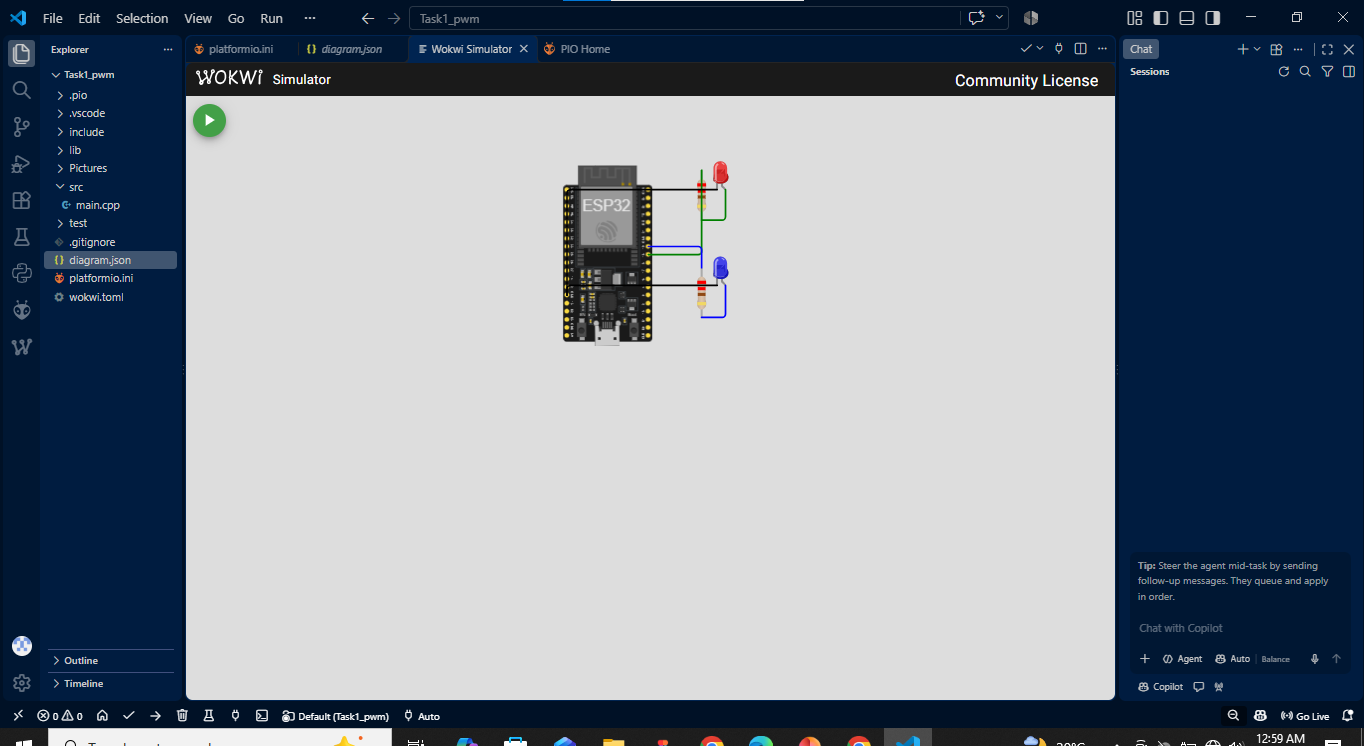
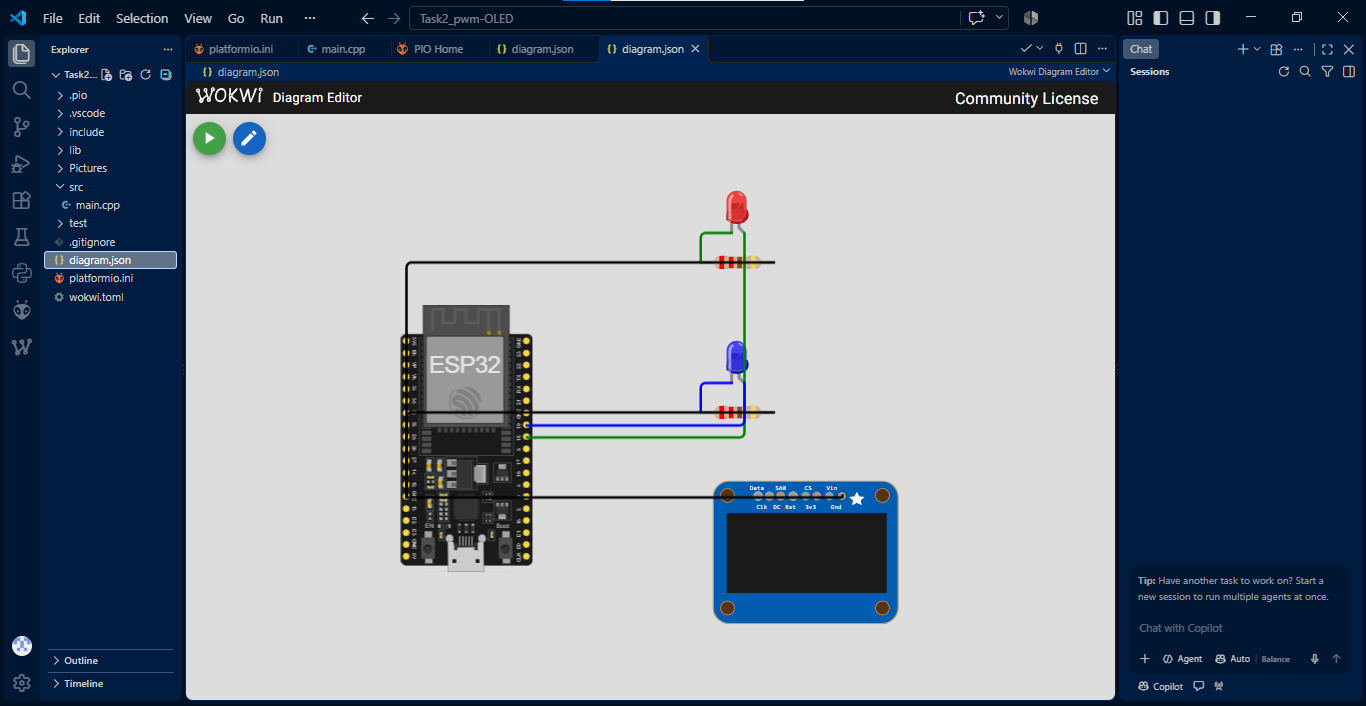
Complete Homework

diff --git a/HOMEWORK_2/src/main.cpp b/HOMEWORK_2/src/main.cpp
@@ -1,73 +1,104 @@
 
 #include <Arduino.h>
+#include <Wire.h>
+#include <Adafruit_GFX.h>
+#include <Adafruit_SSD1306.h>
 
-constexpr uint8_t LED1_PIN = 18;
-constexpr uint8_t LED2_PIN = 19;
+#define SCREEN_WIDTH 128
+#define SCREEN_HEIGHT 64
+#define OLED_RESET -1
+#define OLED_ADDRESS 0x3C
 
-constexpr uint8_t PWM_CHANNEL1 = 0;
-constexpr uint8_t PWM_CHANNEL2 = 2;
+Adafruit_SSD1306 display(
+    SCREEN_WIDTH, SCREEN_HEIGHT, &Wire, OLED_RESET
+);
 
-constexpr uint32_t PWM_FREQUENCY1 = 1000;
-constexpr uint32_t PWM_FREQUENCY2 = 5000;
+const int LED1_PIN = 18;
+const int LED2_PIN = 19;
 
-constexpr uint8_t PWM_RESOLUTION = 8;
-constexpr uint16_t PWM_MAX_DUTY = (1 << PWM_RESOLUTION) - 1;
+const int CHANNEL1 = 0;
+const int CHANNEL2 = 2;
 
-void setup()
-{
+const int FREQ1 = 1000;
+const int FREQ2 = 5000;
+const int RESOLUTION = 8;
+const int MAX_DUTY = 255;
+
+int duty1 = 0;
+int duty2 = 0;
+
+void showOLED() {
+    int percent1 = duty1 * 100 / MAX_DUTY;
+    int percent2 = duty2 * 100 / MAX_DUTY;
+
+    display.clearDisplay();
+    display.setTextColor(SSD1306_WHITE);
+    display.setTextSize(1);
+
+    display.setCursor(0, 0);
+    display.println("PWM MONITOR");
+
+    display.setCursor(0, 18);
+    display.print("LED1: ");
+    display.print(percent1);
+    display.print("% F:");
+    display.print(FREQ1);
+    display.println("Hz");
+
+    display.setCursor(0, 38);
+    display.print("LED2: ");
+    display.print(percent2);
+    display.print("% F:");
+    display.print(FREQ2);
+    display.println("Hz");
+
+    display.display();
+}
+
+void setup() {
     Serial.begin(115200);
 
-    double actualFreq1 = ledcSetup(
-        PWM_CHANNEL1, PWM_FREQUENCY1, PWM_RESOLUTION
-    );
+    Wire.begin(21, 22);
 
-    double actualFreq2 = ledcSetup(
-        PWM_CHANNEL2, PWM_FREQUENCY2, PWM_RESOLUTION
-    );
-
-    if (actualFreq1 == 0 || actualFreq2 == 0)
-    {
-        Serial.println("ERROR: PWM setup failed.");
-        while (true)
-        {
+    if (!display.begin(SSD1306_SWITCHCAPVCC, OLED_ADDRESS)) {
+        Serial.println("OLED initialization failed!");
+        while (true) {
             delay(1000);
         }
     }
 
-    ledcAttachPin(LED1_PIN, PWM_CHANNEL1);
-    ledcAttachPin(LED2_PIN, PWM_CHANNEL2);
+    ledcSetup(CHANNEL1, FREQ1, RESOLUTION);
+    ledcSetup(CHANNEL2, FREQ2, RESOLUTION);
 
-    ledcWrite(PWM_CHANNEL1, 0);
-    ledcWrite(PWM_CHANNEL2, 0);
+    ledcAttachPin(LED1_PIN, CHANNEL1);
+    ledcAttachPin(LED2_PIN, CHANNEL2);
 
-    Serial.println("Dual LED PWM Fade Started");
+    ledcWrite(CHANNEL1, 0);
+    ledcWrite(CHANNEL2, 0);
 
-    Serial.print("LED 1 Frequency: ");
-    Serial.print(actualFreq1);
-    Serial.println(" Hz");
+    Serial.println("Task 2: Dual LED PWM with OLED");
 
-    Serial.print("LED 2 Frequency: ");
-    Serial.print(actualFreq2);
-    Serial.println(" Hz");
+    showOLED();
 }
 
-void loop()
-{
-    // Fade in both LEDs
-    for (int duty = 0; duty <= PWM_MAX_DUTY; duty++)
-    {
-        ledcWrite(PWM_CHANNEL1, duty);
-        ledcWrite(PWM_CHANNEL2, duty);
+void loop() {
+    for (duty1 = 0; duty1 <= MAX_DUTY; duty1++) {
+        duty2 = duty1;
 
+        ledcWrite(CHANNEL1, duty1);
+        ledcWrite(CHANNEL2, duty2);
+
+        showOLED();
         delay(10);
     }
 
-    // Fade out both LEDs
-    for (int duty = PWM_MAX_DUTY; duty >= 0; duty--)
-    {
-        ledcWrite(PWM_CHANNEL1, duty);
-        ledcWrite(PWM_CHANNEL2, duty);
+    for (duty1 = MAX_DUTY; duty1 >= 0; duty1--) {
+        duty2 = duty1;
 
+        ledcWrite(CHANNEL1, duty1);
+        ledcWrite(CHANNEL2, duty2);
+
+        showOLED();
         delay(10);
     }
 }

diff --git a/HOMEWORK_2/README.md b/HOMEWORK_2/README.md
@@ -1,130 +1,159 @@
-# Homework 2 - Task 1: Two-LED PWM Fading (ESP32)
+# Homework 2 - Task 2: Two-LED PWM Fading with SSD1306 OLED (ESP32)
 
-Two LEDs fade in and out together using the ESP32's hardware PWM (LEDC). Each LED runs at a **different PWM frequency** (1 kHz and 5 kHz), so the two frequencies can be compared. The circuit was built and tested in Wokwi, with PlatformIO and the Arduino framework.
+This is the completed project. It extends Task 1 by adding an SSD1306 OLED display. Two LEDs fade in and out using ESP32 hardware PWM at two different frequencies, and the OLED shows each LED's **live duty-cycle percentage** and its **configured PWM frequency**.
 
-- **Author:** HAFIZ ZAKARIYA ALTAF
+- **Author:** ZAKARIYA
 - **Board:** ESP32 DevKit C (Wokwi: `board-esp32-devkit-c-v4`, PlatformIO: `esp32dev`)
+- **Framework:** Arduino (PlatformIO)
+- **Libraries:** Adafruit GFX Library, Adafruit SSD1306
 - **Wokwi project link:** _add your link here_
 
 ## Project files
 
-| File | Purpose |
-|------|---------|
-| `src/main.cpp` | Source code |
-| `diagram.json` | Wokwi circuit configuration |
-| `wokwi.toml` | Wokwi firmware paths |
-| `platformio.ini` | PlatformIO build settings |
+```
+Task2_pwm-OLED/
+├── src/
+│   └── main.cpp        # final source code
+├── diagram.json        # Wokwi circuit configuration (with OLED)
+├── wokwi.toml          # Wokwi firmware paths
+├── platformio.ini      # PlatformIO settings and library dependencies
+├── images/             # screenshots and hardware photographs
+└── README.md
+```
 
 ## Components
 
-- 1 x ESP32 DevKit C
-- 1 x red LED (LED 1)
-- 1 x blue LED (LED 2)
-- 2 x 220 ohm resistors (one per LED)
+| Qty | Component | Notes |
+|-----|-----------|-------|
+| 1 | ESP32 DevKit C | main board |
+| 1 | Red LED | LED 1 |
+| 1 | Blue LED | LED 2 |
+| 2 | 220 ohm resistor | current limiting, one per LED |
+| 1 | SSD1306 OLED, 128x64, I2C | address `0x3C` |
 
 ## Wiring
 
-| From | To |
-|------|----|
-| GPIO 18 | Resistor R1 (220 ohm), then red LED anode |
-| Red LED cathode | GND |
-| GPIO 19 | Resistor R2 (220 ohm), then blue LED anode |
-| Blue LED cathode | GND |
+**LEDs**
+
+| ESP32 pin | Connects to |
+|-----------|-------------|
+| GPIO 18 | Red LED anode (LED 1) |
+| Red LED cathode | 220 ohm resistor (R1), then GND |
+| GPIO 19 | Blue LED anode (LED 2) |
+| Blue LED cathode | 220 ohm resistor (R2), then GND |
+
+**OLED (I2C)**
+
+| OLED pin | ESP32 pin |
+|----------|-----------|
+| VCC | 3V3 |
+| GND | GND |
+| SDA | GPIO 21 |
+| SCL | GPIO 22 |
 
 ```
-GPIO18 ---[220R]---|>|(red)---- GND
-GPIO19 ---[220R]---|>|(blue)--- GND
+GPIO18 ---|>|(red)---[220R]--- GND
+GPIO19 ---|>|(blue)--[220R]--- GND
+
+3V3    ---- OLED VCC
+GND    ---- OLED GND
+GPIO21 ---- OLED SDA
+GPIO22 ---- OLED SCL
 ```
 
 ## PWM frequencies
 
-| | LED 1 (red) | LED 2 (blue) |
-|---|---|---|
+| Setting | LED 1 (red) | LED 2 (blue) |
+|---------|-------------|--------------|
 | GPIO pin | 18 | 19 |
 | LEDC channel | 0 | 2 |
-| Frequency | **1000 Hz** | **5000 Hz** |
-| Resolution | 8 bit (0 to 255) | 8 bit (0 to 255) |
+| PWM frequency | **1000 Hz (1 kHz)** | **5000 Hz (5 kHz)** |
+| Resolution | 8 bit | 8 bit |
+| Duty range | 0 to 255 | 0 to 255 |
 
-Channels 0 and 2 are used so each LED has its own LEDC timer. This lets the two LEDs run at different frequencies at the same time.
+Channels 0 and 2 are used so that each LED gets its own LEDC timer. This is what allows the two LEDs to run at different frequencies at the same time.
 
 ## Duty-cycle control
 
-- Duty value `0` means off and `255` means fully on. Percentage = `duty / 255 x 100`.
-- `ledcWrite(channel, duty)` sets the duty cycle.
-- The `loop()` function does two steps forever:
-  1. **Fade in:** duty goes from 0 to 255 in steps of 1, with a 10 ms delay per step (about 2.56 s).
-  2. **Fade out:** duty goes from 255 to 0 in steps of 1, with a 10 ms delay per step (about 2.56 s).
-- Both LEDs get the same duty value, so they fade together. Only their frequencies differ.
-- One full cycle takes about 5.12 s.
+- The duty value (`duty1`, `duty2`) goes from `0` (off) to `255` (fully on).
+- `ledcWrite(channel, duty)` applies the duty value to the PWM channel.
+- In `loop()`:
+  1. **Fade in:** duty rises from 0 to 255 in steps of 1.
+  2. **Fade out:** duty falls from 255 to 0 in steps of 1.
+  3. After every step, the OLED is refreshed and the code waits 10 ms.
+- Both LEDs use the same duty value (`duty2 = duty1`), so they fade together. Only their PWM frequency is different.
+- The percentage shown on the OLED is calculated as `duty * 100 / 255`.
 
-## Serial output
+## OLED output
 
-At start-up the program prints the configured frequencies (115200 baud):
+The display is 128x64 pixels with 1x text size. It is updated by `showOLED()` on every duty step, and shows three lines:
 
 ```
-Dual LED PWM Fade Started
-LED 1 Frequency: 1000.00 Hz
-LED 2 Frequency: 5000.00 Hz
+PWM MONITOR
+LED1: 50% F:1000Hz
+LED2: 50% F:5000Hz
 ```
 
-If PWM setup fails, it prints `ERROR: PWM setup failed.` and stops.
+- The percentage values change live from 0 % to 100 % and back as the LEDs fade.
+- The frequencies stay fixed at 1000 Hz and 5000 Hz.
+- If the OLED is not found at address `0x3C`, the serial monitor prints `OLED initialization failed!` and the program stops.
+
+**Serial monitor at start-up (115200 baud):**
+
+```
+Task 2: Dual LED PWM with OLED
+```
 
 ## How to run
 
-**Wokwi:** open the project link and press the green Play button.
+**Wokwi:** open the project link above and press the green Play button.
 
-**PlatformIO (VS Code):** open the folder, click **Build**, then start the simulation with the Wokwi extension.
+**PlatformIO (VS Code):**
+1. Open the project folder. PlatformIO downloads the two Adafruit libraries automatically from `platformio.ini`.
+2. Click **Build**.
+3. Start the simulation using the Wokwi extension (`diagram.json`), or upload to a real ESP32 board with **Upload**.
 
-## Test notes
 
-Expected behaviour when the simulation runs:
-
-- Both LEDs start off, fade smoothly up to full brightness, then fade smoothly back to off.
-- The cycle repeats continuously.
-- The serial monitor shows 1000 Hz for LED 1 and 5000 Hz for LED 2.
-- No flicker is visible at either frequency.
 ## Test results
 
-**Test setup:** Wokwi simulation, ESP32 DevKit C, red LED on GPIO 18 (1 kHz) and blue LED on GPIO 19 (5 kHz). Serial monitor at 115200 baud.
+**Test setup:** ESP32 DevKit C, red LED on GPIO 18 (1 kHz), blue LED on GPIO 19 (5 kHz), SSD1306 OLED (128x64, I2C address 0x3C) on GPIO 21 (SDA) and GPIO 22 (SCL). Tested first in Wokwi, then on real hardware. Serial monitor at 115200 baud.
 
 **Serial monitor output:**
 
 ```
-Dual LED PWM Fade Started
-LED 1 Frequency: 1000.00 Hz
-LED 2 Frequency: 5000.00 Hz
+Task 2: Dual LED PWM with OLED
 ```
 
-**Fade-in progress (10 ms per step):**
+**OLED readings during the fade-in:**
 
-| Time (approx.) | Duty value | Duty cycle | LED brightness |
-|----------------|-----------|------------|----------------|
-| 0.00 s | 0 | 0 % | off |
-| 0.64 s | 64 | 25 % | dim |
-| 1.28 s | 128 | 50 % | medium |
-| 1.92 s | 192 | 75 % | bright |
-| 2.55 s | 255 | 100 % | full brightness |
+| Duty value | OLED line 2 | OLED line 3 | LED brightness |
+|-----------|-------------|-------------|----------------|
+| 0 | `LED1: 0% F:1000Hz` | `LED2: 0% F:5000Hz` | off |
+| 64 | `LED1: 25% F:1000Hz` | `LED2: 25% F:5000Hz` | dim |
+| 128 | `LED1: 50% F:1000Hz` | `LED2: 50% F:5000Hz` | medium |
+| 192 | `LED1: 75% F:1000Hz` | `LED2: 75% F:5000Hz` | bright |
+| 255 | `LED1: 100% F:1000Hz` | `LED2: 100% F:5000Hz` | full brightness |
 
-After reaching 255, the duty value counts back down to 0 over another 2.55 s. One full fade-in and fade-out cycle takes about 5.12 s, then it repeats.
-
-**Frequency comparison:**
-
-| | LED 1 (red) | LED 2 (blue) |
-|---|---|---|
-| Frequency | 1000 Hz | 5000 Hz |
-| PWM period | 1.0 ms | 0.2 ms |
-| Duty step size (8-bit) | about 3.9 microseconds | about 0.78 microseconds |
+The first OLED line always shows `PWM MONITOR`. During the fade-out the percentages count back down from 100 % to 0 %, and the frequencies stay at 1000 Hz and 5000 Hz.
 
 **Summary of results:**
 
-| Test | Result |
-|------|--------|
-| PWM setup succeeds for both channels | Pass (no error message printed) |
-| Serial monitor shows 1000 Hz and 5000 Hz | Pass |
-| Both LEDs fade in from off to full brightness | Pass |
-| Both LEDs fade out from full brightness to off | Pass |
-| Both LEDs fade together (same duty value) | Pass |
-| Cycle repeats continuously | Pass |
-| Visible flicker at 1 kHz or 5 kHz | None, both are far above what the eye can see |
+| Test | Wokwi | Hardware |
+|------|-------|----------|
+| OLED initializes and shows "PWM MONITOR" | Pass | Pass |
+| LED 1 fades in and out at 1000 Hz | Pass | Pass |
+| LED 2 fades in and out at 5000 Hz | Pass | Pass |
+| OLED percentage follows LED brightness (0 % to 100 % and back) | Pass | Pass |
+| OLED shows F:1000Hz and F:5000Hz | Pass | Pass |
+| Both LEDs fade together | Pass | Pass |
+| Cycle repeats continuously | Pass | Pass |
+| Visible flicker at 1 kHz or 5 kHz | None | None |
+| No "OLED initialization failed!" message | Pass | Pass |
 
-**Conclusion:** Both LEDs faded smoothly with 256 brightness levels. The 1 kHz and 5 kHz frequencies looked the same to the eye, because both are well above the flicker threshold. The difference between them only matters for things like measuring the signal with an oscilloscope, or noise in other circuits.
+**Fade speed:** The code waits 10 ms per step, and 512 steps make one cycle (5.12 s if there were no other delay). The OLED is redrawn on every step, and each redraw takes extra time, so the real cycle is longer, roughly 15 to 20 seconds.
+
+## Wokwi vs hardware comparison
+
+The Wokwi simulation and the real hardware gave the same results. In both, the red and blue LEDs faded in and out together, and the OLED showed the live duty-cycle percentage and the fixed frequencies (1000 Hz and 5000 Hz) correctly. No flicker could be seen at either frequency.
+
+The small differences were in the physical details. On the real board, the LED brightness looked slightly different between the red and blue LEDs, because the two colors have different forward voltages and brightness. The OLED text on hardware was small and needed a close look, while in Wokwi it was easy to read on screen. The fade speed was slower than the 10 ms per step in the code in both cases, because redrawing the OLED on every step adds delay. Overall, Wokwi was a reliable way to test the code before wiring the real circuit.
